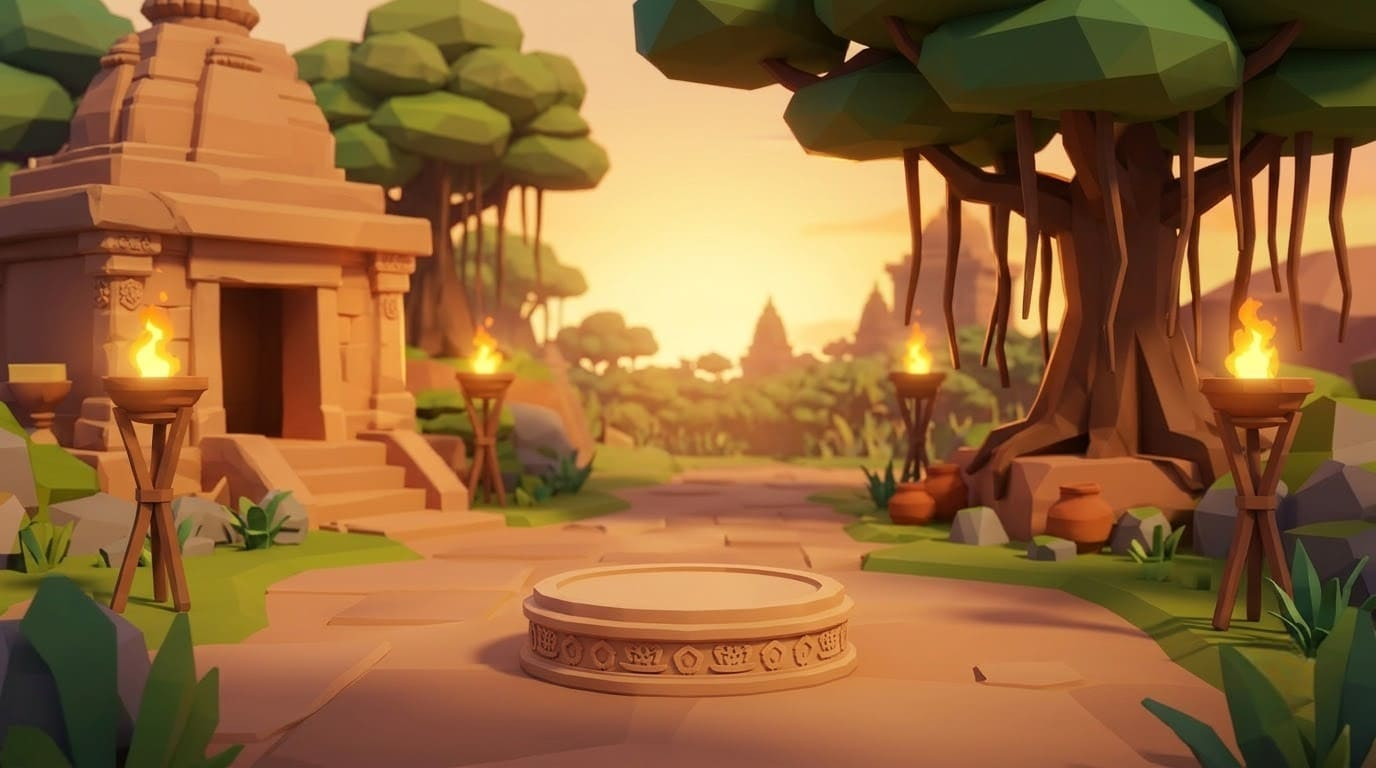
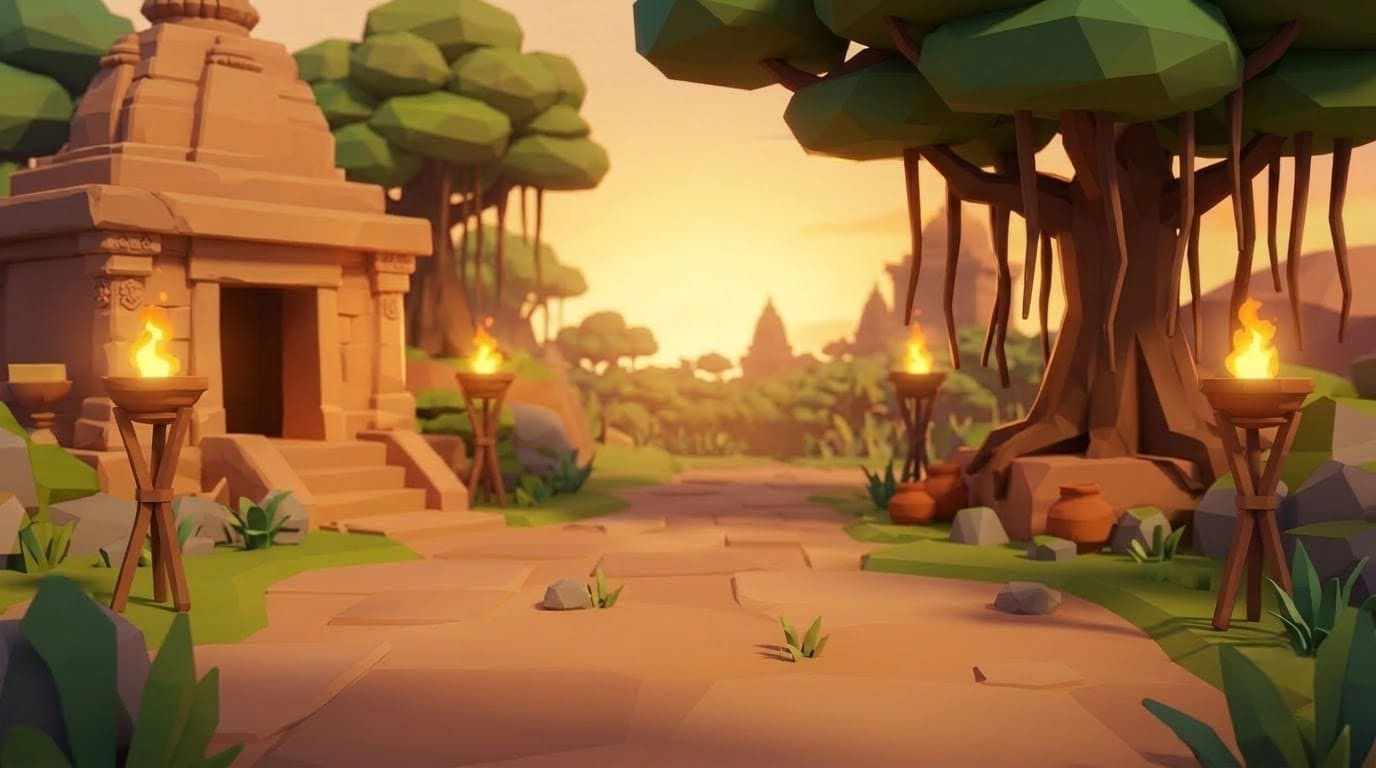
Fix lobby hero pedestal anchor, contact shadow, and breathing animation

Changed region(s): [[0.3438, 0.7188, 0.625, 0.9062], [0.7188, 0.75, 0.7812, 0.8125], [0.9062, 0.8125, 0.9375, 0.8438]]

diff --git a/divyastra/src/lobby.css b/divyastra/src/lobby.css
@@ -116,7 +116,7 @@
   object-fit: contain; pointer-events: none; z-index: 2;
 }
 .hero-glow-layer {
-  position: absolute; left: 535px; top: 320px; width: 240px; height: 240px;
+  position: absolute; left: 514px; top: 320px; width: 240px; height: 240px;
   border-radius: 50%; background: radial-gradient(circle, rgba(255, 215, 0, 0.35) 0%, rgba(200, 150, 62, 0) 70%);
   transform: translate(-50%, -50%) scale(1); pointer-events: none; z-index: 1;
   animation: heroGlowPulse 4s ease-in-out infinite alternate;
@@ -125,10 +125,16 @@
   0% { transform: translate(-50%, -50%) scale(0.92); opacity: 0.4; }
   100% { transform: translate(-50%, -50%) scale(1.12); opacity: 0.85; }
 }
+.hero-contact-shadow {
+  position: absolute; left: 514px; top: 454px; width: 130px; height: 26px;
+  transform: translate(-50%, -50%);
+  background: radial-gradient(ellipse, rgba(40, 15, 0, 0.5) 0%, rgba(40, 15, 0, 0) 70%);
+  pointer-events: none; z-index: 3;
+}
 .lobby-hero-wrapper {
-  position: absolute; left: 535px; top: 440px; transform: translate(-50%, -100%);
-  height: 330px; display: flex; align-items: flex-end; justify-content: center;
-  pointer-events: none; z-index: 3; animation: heroIdleBob 3s ease-in-out infinite alternate;
+  position: absolute; left: 514px; top: 456px; transform: translate(-50%, -100%);
+  transform-origin: 50% 100%; height: 330px; display: flex; align-items: flex-end; justify-content: center;
+  pointer-events: none; z-index: 4; animation: heroBreathe 3s ease-in-out infinite alternate;
 }
 .lobby-hero-img {
   height: 330px; width: auto; object-fit: contain; display: block;
@@ -136,9 +142,9 @@
 }
 .lobby-hero-img.fading { opacity: 0; }
 .lobby-hero-img.locked-dim { filter: brightness(0.4) grayscale(0.4); }
-@keyframes heroIdleBob {
-  0% { transform: translate(-50%, -100%) translateY(0); }
-  100% { transform: translate(-50%, -100%) translateY(-10px); }
+@keyframes heroBreathe {
+  0% { transform: translate(-50%, -100%) scaleX(1) scaleY(1); }
+  100% { transform: translate(-50%, -100%) scaleX(0.996) scaleY(1.018); }
 }
 .hero-chevron-btn {
   position: absolute; top: 430px; width: 47px; height: 45px; pointer-events: auto;

diff --git a/divyastra/src/ui/LobbyShell.js b/divyastra/src/ui/LobbyShell.js
@@ -1,6 +1,13 @@
 import { HEROES, VALID_HERO_IDS, DEFAULT_UNLOCKED_HEROES } from '../config/constants.js';
 import { LEVELS } from '../config/levels.js';
 
+const HERO_IMG = {
+  tapasvi: 'hero_tapasvi.webp',
+  jala: 'hero_jala.webp',
+  prithvi: 'hero_prithvi.webp',
+  agni: 'hero_agni.png'
+};
+
 export class LobbyShell {
   constructor(uiManager, campaignManager, meta) {
     this.ui = uiManager;
@@ -42,7 +49,6 @@ export class LobbyShell {
   preloadImages() {
     const images = [
       './lobby/bg_lobby.webp', './lobby/pedestal.png',
-      `./lobby/hero_${this.displayedHeroId}.png`,
       './lobby/icon_trophy.png', './lobby/icon_gold.png', './lobby/icon_gem.png',
       './lobby/icon_quests.png', './lobby/icon_granth.png', './lobby/icon_settings.png',
       './lobby/icon_heroes.png', './lobby/icon_staves.png', './lobby/icon_upgrades.png',
@@ -60,12 +66,18 @@ export class LobbyShell {
     bg.onerror = onCriticalLoad;
     bg.src = './lobby/bg_lobby.webp';
 
+    const initialHero = HERO_IMG[this.displayedHeroId] || HERO_IMG.tapasvi;
     const hero = new Image();
     hero.onload = onCriticalLoad;
     hero.onerror = onCriticalLoad;
-    hero.src = `./lobby/hero_${this.displayedHeroId}.png`;
+    hero.src = `./lobby/${initialHero}`;
 
-    images.slice(3).forEach((src) => {
+    Object.values(HERO_IMG).forEach((file) => {
+      const img = new Image();
+      img.src = `./lobby/${file}`;
+    });
+
+    images.forEach((src) => {
       const img = new Image();
       img.src = src;
     });
@@ -170,11 +182,12 @@ export class LobbyShell {
   updateHeroDisplay() {
     const hero = HEROES.find((h) => h.id === this.displayedHeroId) || HEROES[0];
     const isUnlocked = this.getUnlockedHeroes().includes(hero.id);
+    const heroFile = HERO_IMG[hero.id] || HERO_IMG.tapasvi;
 
     if (this.heroImg) {
       this.heroImg.classList.add('fading');
       setTimeout(() => {
-        this.heroImg.src = `./lobby/hero_${hero.id}.png`;
+        this.heroImg.src = `./lobby/${heroFile}`;
         this.heroImg.classList.toggle('locked-dim', !isUnlocked);
         this.heroImg.classList.remove('fading');
       }, 150);

diff --git a/divyastra/index.html b/divyastra/index.html
@@ -86,12 +86,13 @@
         </button>
       </aside>
 
-      <!-- 3. CENTER PEDESTAL & HERO (x: 390-640, hero ~535) -->
+      <!-- 3. CENTER PEDESTAL & HERO (x: 390-640, hero ~514) -->
       <section class="lobby-center-showcase">
         <img src="./lobby/pedestal.png" class="lobby-pedestal-img" alt="Pedestal" />
         <div id="hero-glow-pulse" class="hero-glow-layer"></div>
+        <div class="hero-contact-shadow"></div>
         <div id="lobby-hero-avatar-box" class="lobby-hero-wrapper">
-          <img id="lobby-hero-img" src="./lobby/hero_tapasvi.png" class="lobby-hero-img" alt="Selected Hero" />
+          <img id="lobby-hero-img" src="./lobby/hero_tapasvi.webp" class="lobby-hero-img" alt="Selected Hero" />
         </div>
         <button id="hero-cycle-prev" class="hero-chevron-btn hero-btn-prev" aria-label="Previous Hero">‹</button>
         <button id="hero-cycle-next" class="hero-chevron-btn hero-btn-next" aria-label="Next Hero">›</button>

diff --git a/CONTEXT.md b/CONTEXT.md
@@ -95,3 +95,4 @@
 - **Difficulty Levels and Campaign Complete**: Added `config/difficulty.js` (EASY, NORMAL, DIFFICULT, HARD with botDamageMult, botAimErrorDeg, botReactionMult, botHpMult, zoneTimeMult, playerXpMult), `config/levels.js` (4 campaign levels with biomes, bot counts, complete ranks), `core/CampaignManager.js` (persistent progress, stars, unlock progression), `ui/LevelSelectView.js` (responsive 4-card level selector), `ui/EndGameModal.js` (level completion, stars, retry/menu/next level actions), HUD 3-second match start banner in `ui/Banners.js`, dev panel unlock all levels button, and forced biome support in `SceneManager.startMatchBiome`. All files strictly under 250 lines.
 - **Mobile Game Home Screen Lobby Redesign Complete**: Redesigned lobby into a mobile-game home screen layout optimized for landscape 844x390 and 740x360; top bar with Yatra One serif logo, trophy/rank badge, gold pill, Quests button, Granth button, and settings popover with sound/fullscreen toggles; left column stacked navigation buttons (Heroes, Staves, Upgrades); center hero showcase on carved stone pedestal with left/right cycling arrows for unlocked heroes; bottom-right glowing pulsing Play button with dynamic CampaignManager next level preview; bottom 4-tab mode navigation (Campaign, Endless, Shop, Battle Pass) with toast feedback; atmosphere with warm sunset gradient, SVG banyan tree silhouette and temple pillars/steps, animated torch flames, vignette, and 8 floating dust specks; panel sheets overlay; all existing element IDs preserved; and all files strictly under 250 lines.
 - **Reference Design Fixed-Stage Lobby Complete**: Rebuilt the landscape lobby using a fixed 1024x572 scaled design stage with `bg_lobby.webp` cover and asset preloading; added top bar with Yatra One serif logo, trophy/rank badge, gold and gems pills (with `meta.gems`), Quests and Granth buttons, and settings popover; left column with 3 plaque buttons (Heroes, Staves, Upgrades) opening full-screen overlay sheets; center hero image on pedestal with transform-only idle bob, glow pulse, and unlocked cycling with locked dimming; bottom-right curved play panel with glowing Play button and dynamic next-level preview; bottom tabs (Shop, Clan, Arsenal, Battle Pass) with toast feedback; all existing element IDs preserved and all files strictly under 250 lines.
+- **Lobby Hero Pedestal Alignment & Breathing Animation Complete**: Fixed hero positioning to anchor feet to the pedestal top disk center at (514px, 456px) with uniform 330px height; mapped hero assets via `HERO_IMG` in `LobbyShell.js` supporting trimmed webp formats and preloading all four heroes; replaced bobbing with fixed-foot breathing animation (`transform-origin: 50% 100%`, scaleY 1 to 1.018, scaleX 1 to 0.996); centered hero glow at x=514px; and added a contact shadow under the feet at (514px, 454px) between the pedestal and hero. All files kept strictly under 250 lines.
